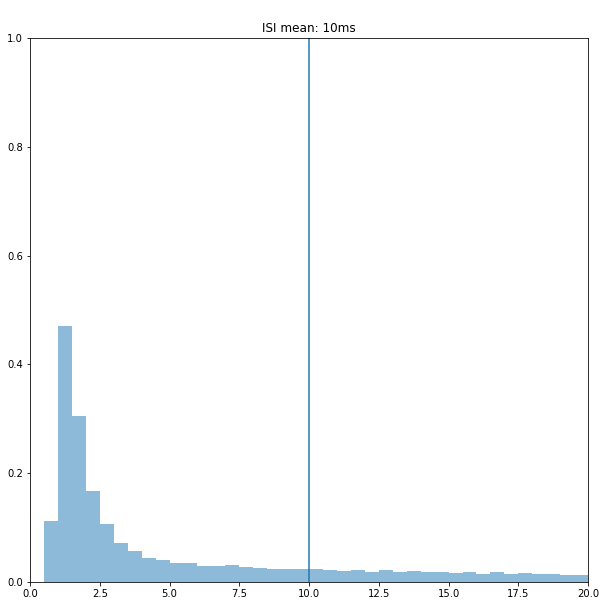
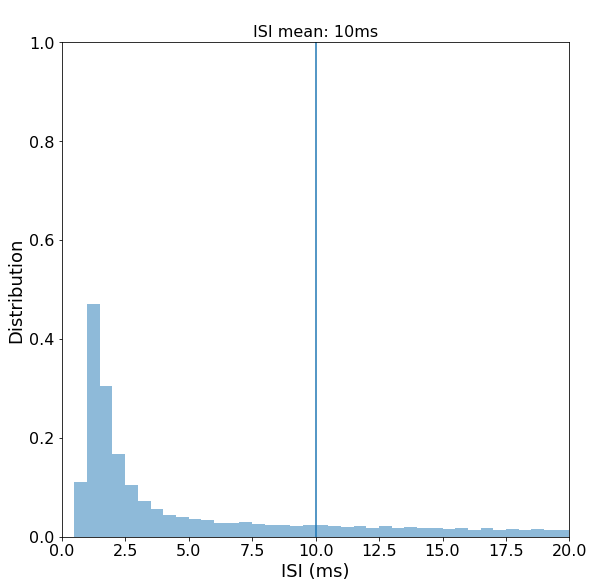
first gif

Changed region(s): [[0.0, 0.0306, 1.0, 1.0]]

diff --git a/plot_hists_segments.py b/plot_hists_segments.py
@@ -111,7 +111,7 @@ def plot_all_histograms(name, log = False, cut=20, fit = None):
         plt.savefig('pictures_report/'+name+' '+str(I_noise)+'.png', bbox_inches = 'tight')
         
 def plot_separately(name, log = False, cut=20, fit = None):
-    plt.rcParams['figure.figsize'] = 10, 10 
+    plt.rcParams['figure.figsize'] = 9.1,9.1
     tau_ns = [ .155, .1575,.16,.1625, .165]*ms
     Iapps = [1.2,2.3,3.2,3.9,4.3]*uA
     I_noises = [3]*uA
@@ -153,8 +153,11 @@ def plot_separately(name, log = False, cut=20, fit = None):
                     if name == 'burst':
                         ax.set_title(means_title_part)
                     plt.ylim((0,1))
-                    plt.title(title+means_title_part)
-                    
+                    plt.title(title+means_title_part, fontsize = 16)
+                    plt.xticks(fontsize=16)
+                    plt.yticks(fontsize=16)
+                    plt.xlabel('ISI (ms)', fontsize = 18)
+                    plt.ylabel('Distribution', fontsize = 18)                    
                     plt.savefig('pictures_presentation/'+file_name+'.png', bbox_inches = 'tight')
                     plt.close()
                 except IOError:
